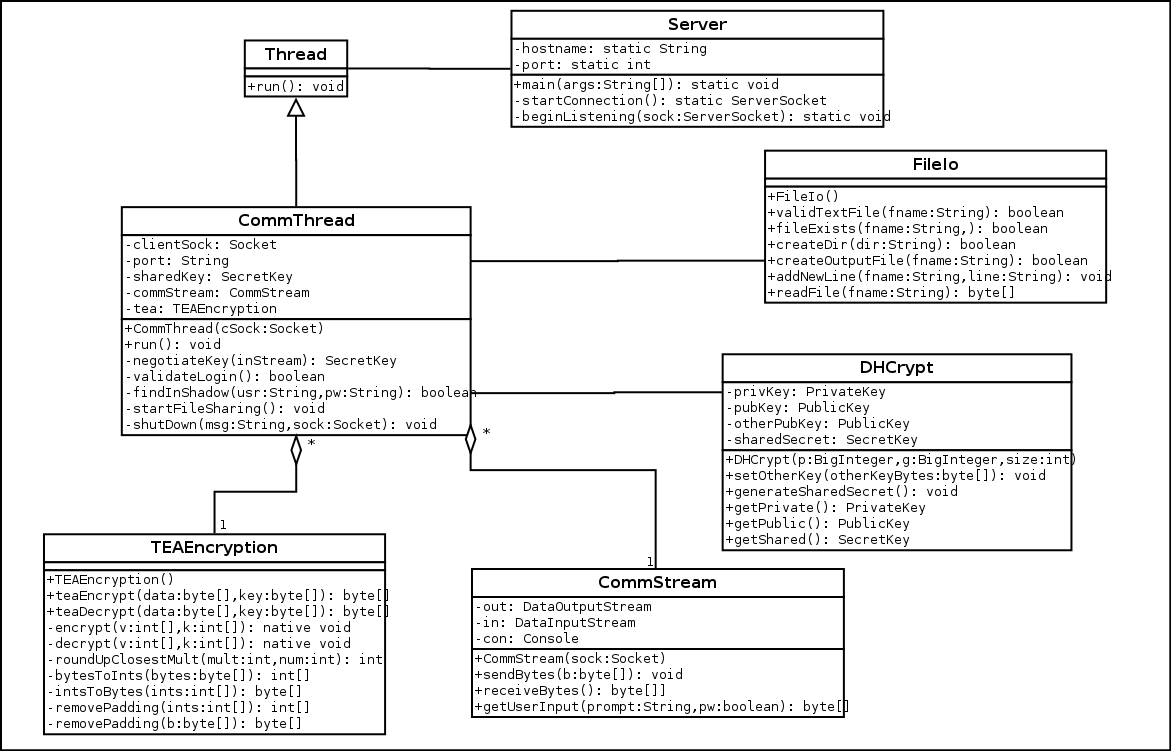
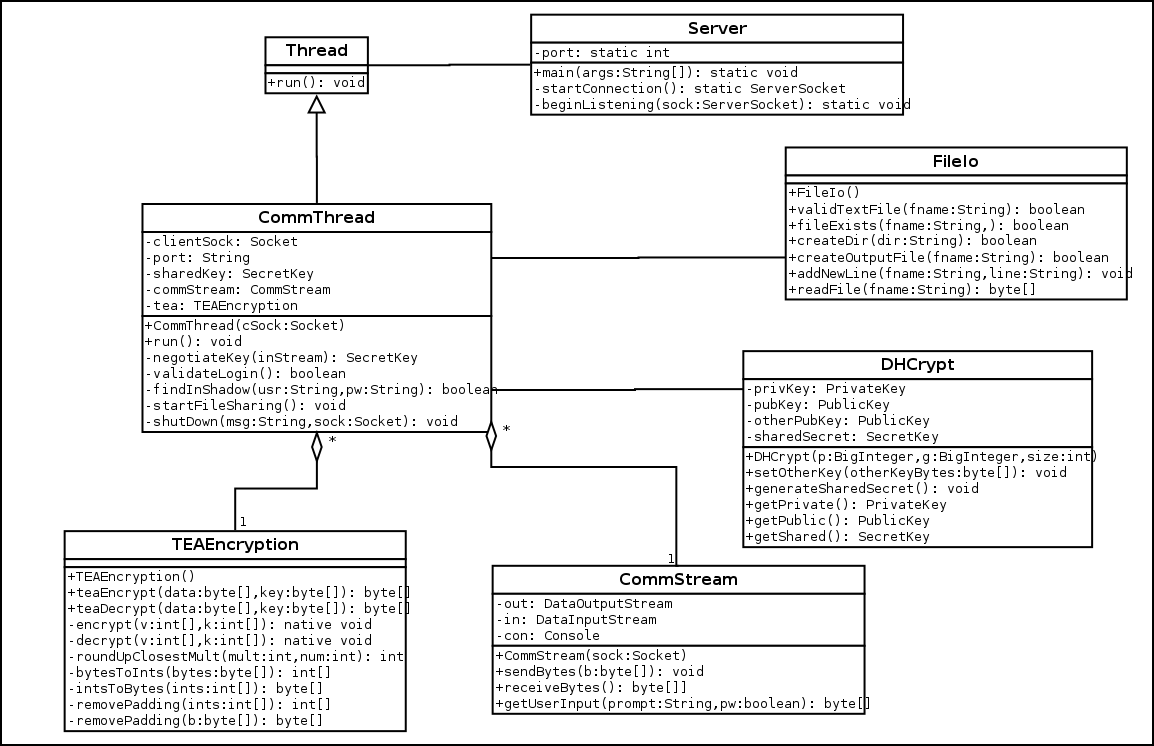
realized i dont need host in server

Changed region(s): [[0.0936, 0.0, 1.0, 1.0], [0.0312, 0.6475, 0.3744, 0.9866]]

diff --git a/Server.java b/Server.java
@@ -13,21 +13,19 @@ import java.nio.file.*;
 
 public class Server
 {
-	static private String hostname;
 	static private int port;
 
 	public static void main(String[] args)
 	{
-		if(args.length != 2)
+		if(args.length != 1)
 		{
-			System.err.println("Error: invalid arguements {hostname} {port}");
+			System.err.println("Error: invalid arguements {port}");
 			return;
 		}
 
-		hostname = args[0];
 		try
 		{
-			port = Integer.parseInt(args[1]);
+			port = Integer.parseInt(args[0]);
 		}
 		catch(NumberFormatException e)
 		{
